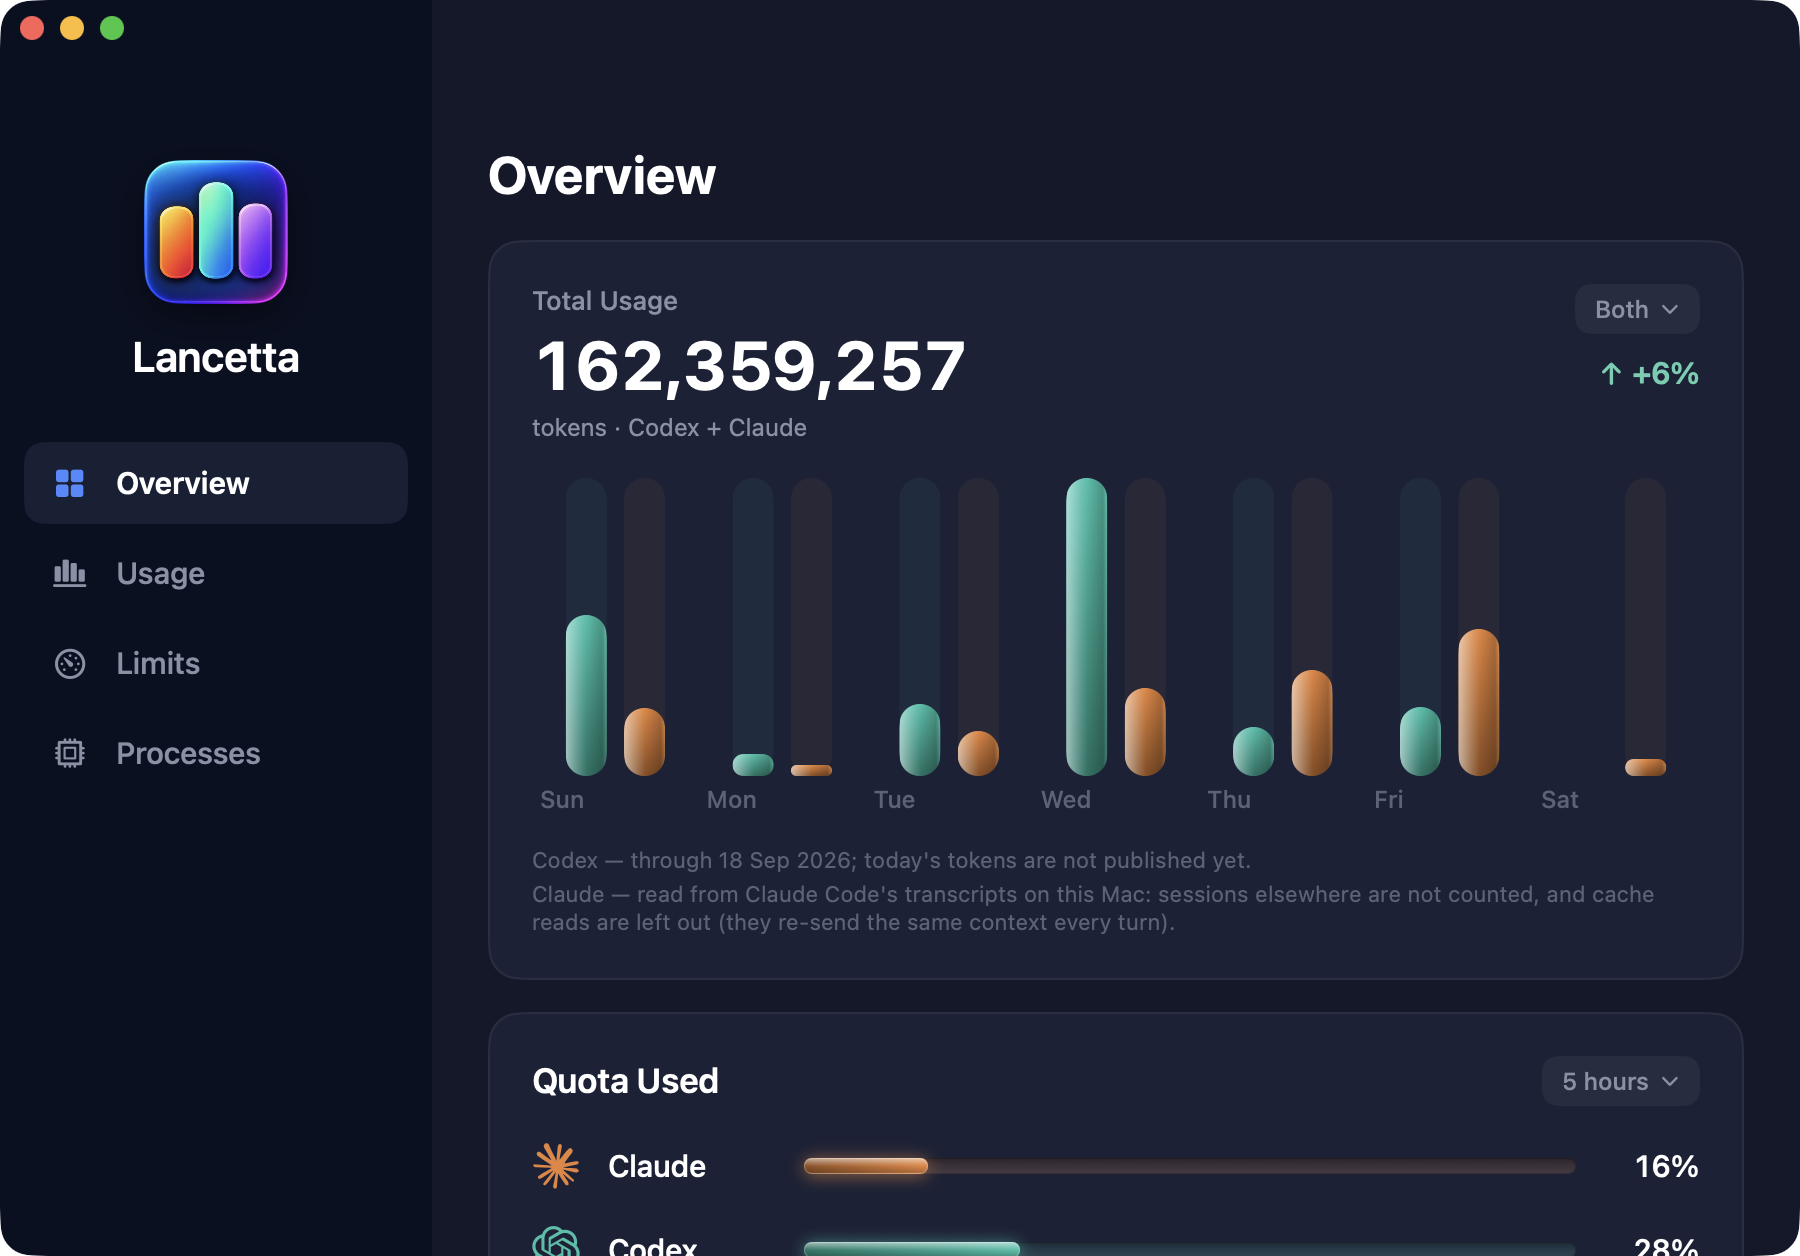
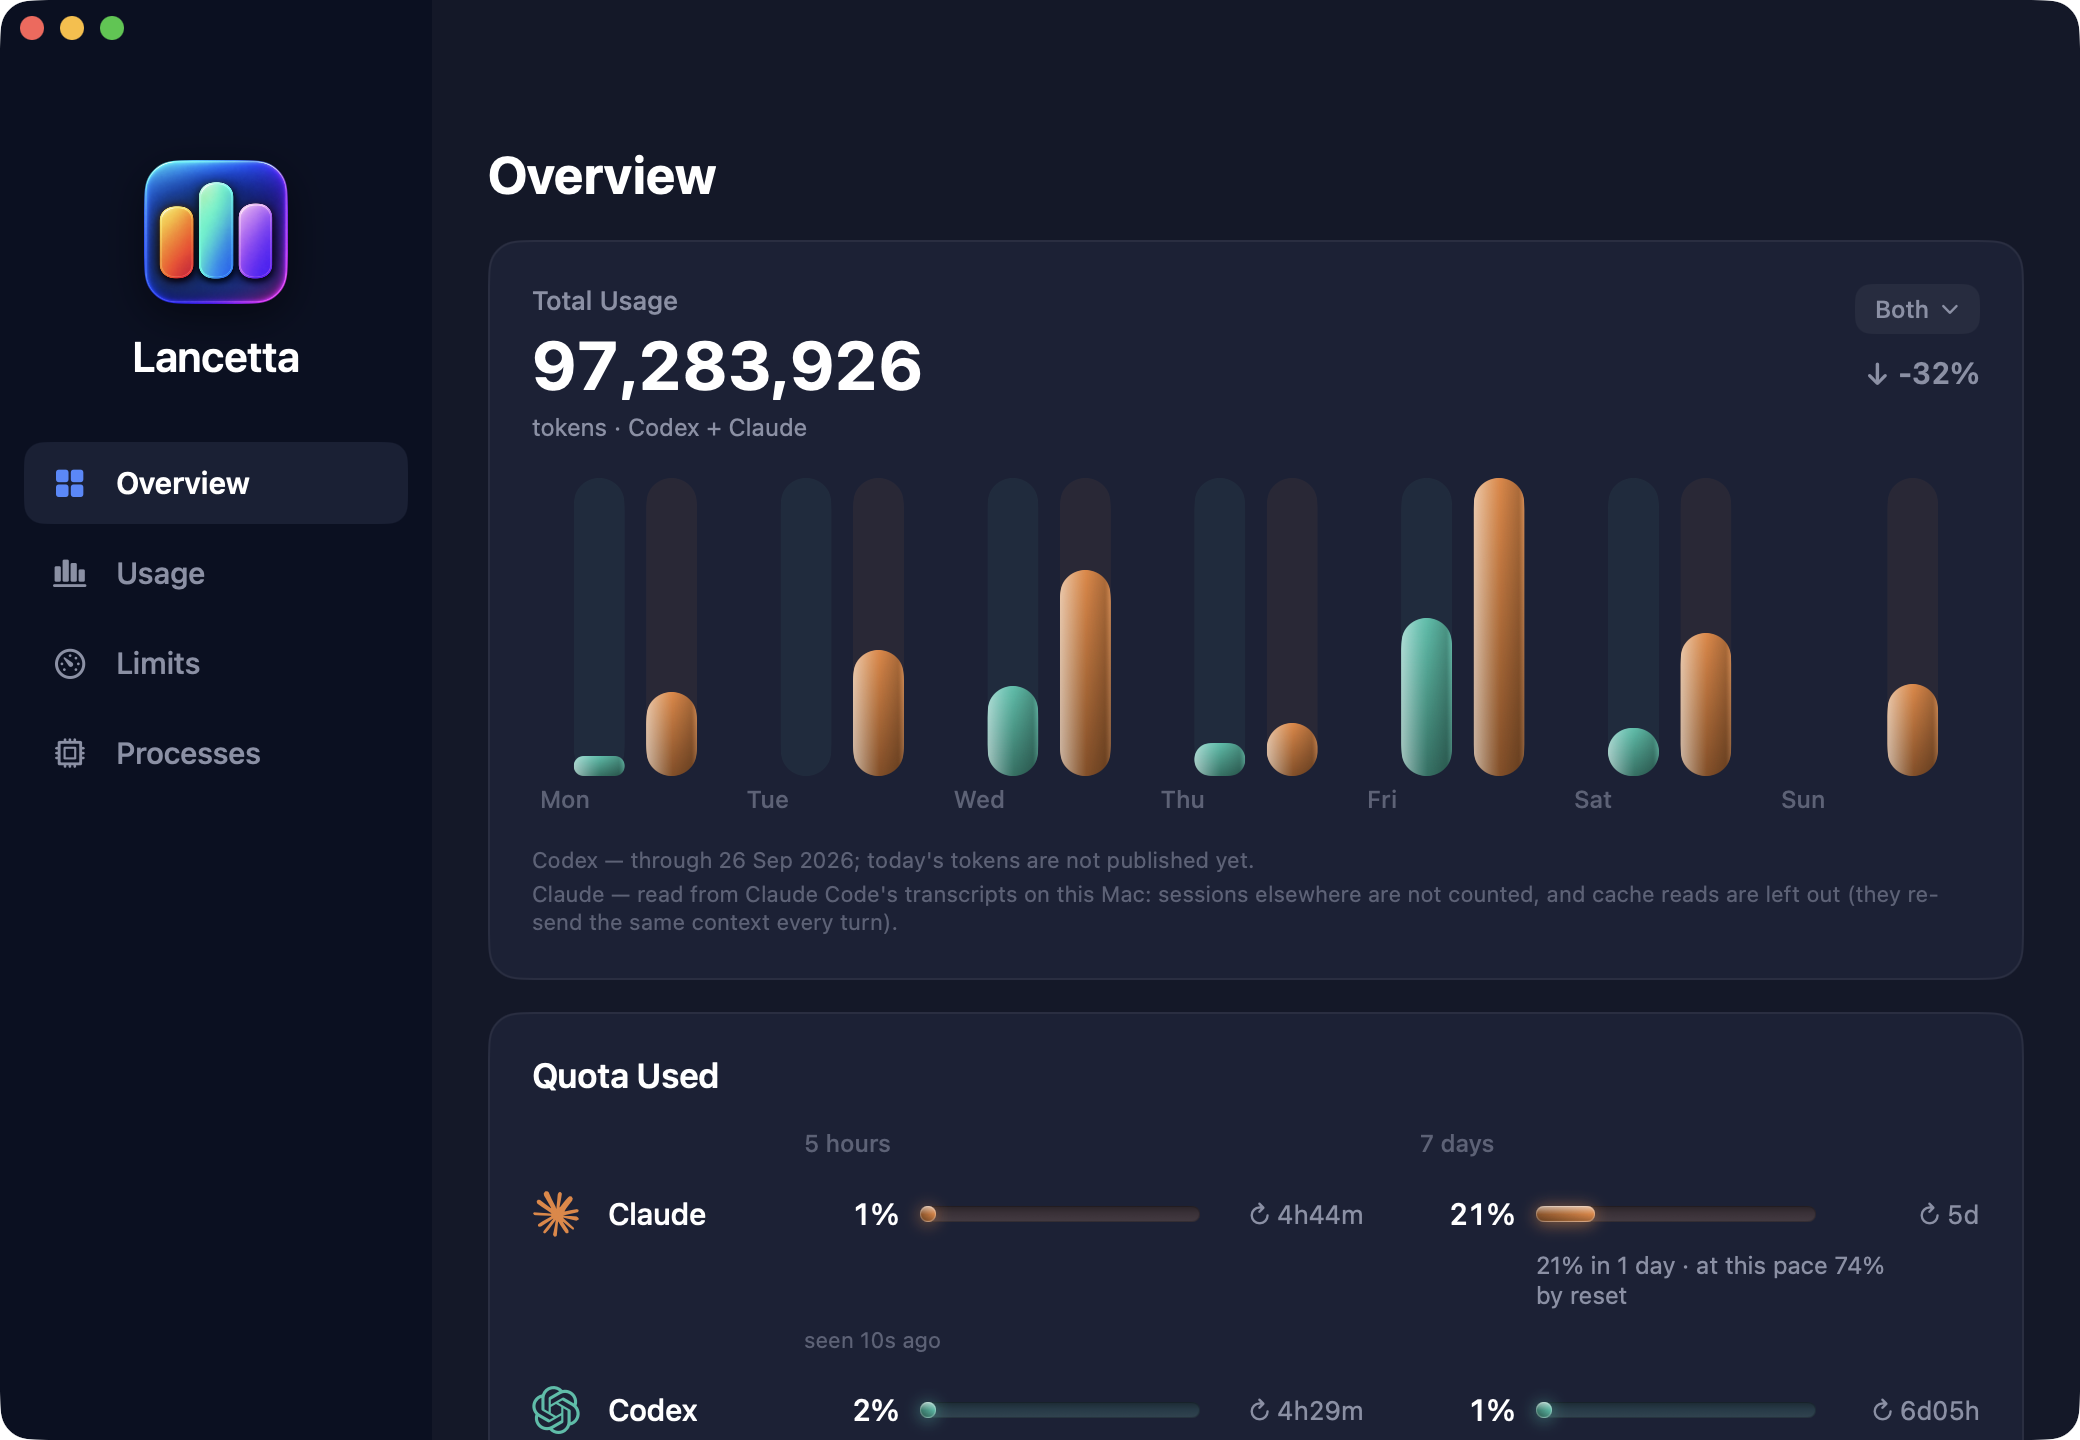
docs: the window re-shot as one set, and Last week's own picture
The Overview capture still showed the Quota Used card with its 5-hour /
7-day picker, which 0.12.0 replaces with both windows on one row. All
four panes were re-shot in one run at the window's default size
(1040x720 points), so the set is one size again, and a fifth capture
shows the Overview scrolled to Quota Used and Last week for that
section. The hero's alt text and its body name what the window now
holds; CLAUDE.md carries the recipe.

diff --git a/components/HeroStage/HeroStage.tsx b/components/HeroStage/HeroStage.tsx
@@ -142,16 +142,16 @@ const frames: Frame[] = [
      * ONE frame for the window since 2026-09-25, where there were three — this
      * one, "The history." (the Usage pane) and "Live, or seen a moment ago."
      * (Limits) — to shorten the page; the feature row below names both, and
-     * the docs carry their pictures. Not a pane switcher in one box: the Limits
-     * capture is 1800x1400 against 1800x1256 for the other two, so the window
-     * would visibly grow on the switch, which is the complaint the Screenshots
-     * section of CLAUDE.md records twice. Re-shoot the set first.
+     * the docs carry their pictures. The four panes were re-shot as ONE set on
+     * 2026-09-27, all 2080x1440 (the window's default 1040x720), so a pane
+     * switcher would no longer change the window's size; one frame stays for
+     * the page's length, not for the pictures.
      */
     src: '/screenshot-window-overview.png',
-    alt: 'The Lancetta window: the daily token series for both agents side by side, and both agents’ quota bars underneath',
+    alt: 'The Lancetta window: the daily token series for both agents side by side, and underneath, each agent’s 5-hour and 7-day windows on one row',
     eyebrow: 'When a glance is not enough',
     title: 'The window.',
-    body: 'Command-O for the rest: daily tokens for both agents over 7, 30 or 90 days, every window in detail with when each reading was last true, and the processes the agents have left running.',
+    body: 'Command-O for the rest: daily tokens for both agents over 7, 30 or 90 days, every window in detail with when each reading was last true, the week that just ended, and the processes the agents have left running.',
     href: '/docs/the-window',
     linkLabel: 'What the window holds',
   },

diff --git a/CLAUDE.md b/CLAUDE.md
@@ -329,17 +329,31 @@ see.
 window and Settings, and a hover on the notch for the island.
 
 Published today: the menu in both appearances, the island collapsed and open,
-the window's Overview, Usage, Limits and Processes panes, and every Settings
+the window's Overview, Usage, Limits and Processes panes plus the Overview
+scrolled to Last week, and every Settings
 pane: General, Appearance, Notch, Agents, both agent pages, Updates and About.
 
 **The four window panes are ONE SET, shot at ONE window size, in one run.** The
 hero showed them in the same box, one per frame, cross-fading in place, so a
 capture of a different size was drawn at a different scale -- and the reader saw
-the window change size as they scrolled. It was reported twice. **The set is
-broken again today**: the Limits pane re-shot on 2026-09-23 is 1800x1400 against
-1800x1256 for Overview and Usage, which is why the hero now carries Overview
-alone and has no pane switcher (2026-09-25). Re-shoot all four before putting
-two of them in one box again. The three panes
+the window change size as they scrolled. It was reported twice. It broke once
+more when the Limits pane alone was re-shot on 2026-09-23 (1800x1400 against
+1800x1256), which is why the hero carries Overview alone (2026-09-25). **The
+whole set was re-shot in one run on 2026-09-27**, at the window's DEFAULT size
+(1040x720 points, 2080x1440 pixels), one launch per pane:
+
+    APP_LANG=en_GB LANCETTA_CAPTURE=1 APP_DEFAULTS="-claudeAccountConnected 0" \
+      ../Lancetta/scripts/app.sh up light "" "" <overview|usage|limits|processes>
+    ../Lancetta/scripts/app.sh window Lancetta <out.png>
+
+with `LANCETTA_DEMO_TREES=1` added for Processes. A fifth capture,
+`screenshot-window-last-week.png`, is the Overview scrolled down to Quota Used
+and Last week: the scroll is set through the scroll bar's accessibility value
+(`set value of scroll bar 1 of scroll area 1 of group 2 of window "Lancetta"` to
+0.70, by pid through System Events), so nothing moved the pointer. The window
+is always dark, whatever `up light` says; the launch leaves the app frontmost,
+so the traffic lights are drawn active. Compressed with ImageOptim's `oxipng -o
+4 --strip safe`, which keeps the Display P3 profile. The three panes
 published before 2026-09-19 were 588 points tall and the app will not open below
 **628** any more, so they showed a window that can no longer exist; padding them
 onto a common canvas fixed the scale and left the windows visibly different
